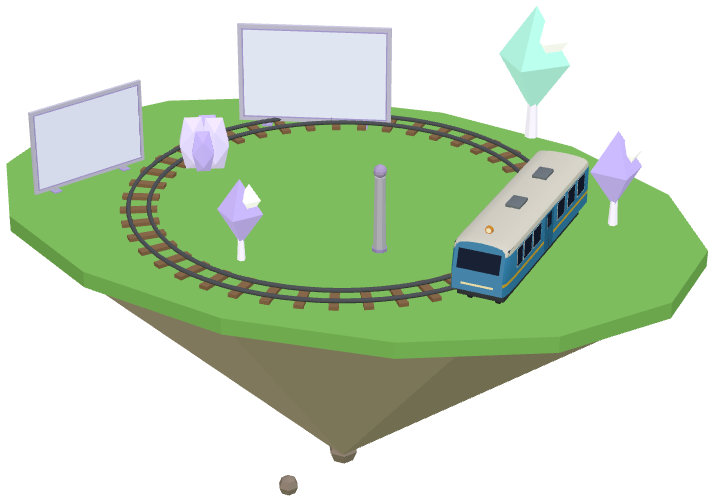
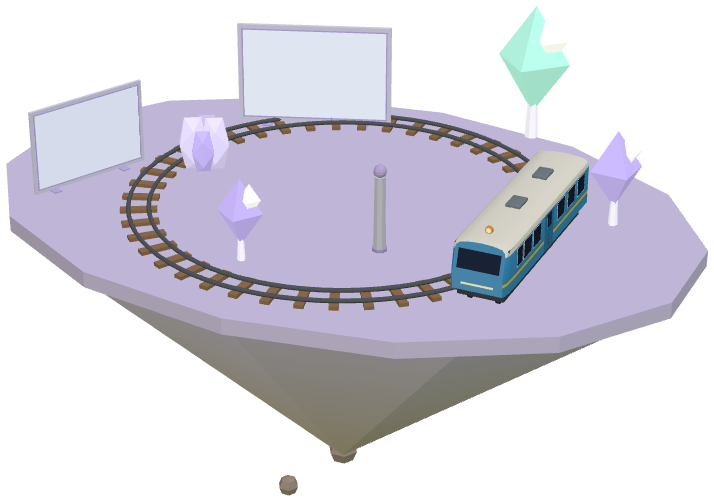
5-3: the mirror Sakasa a third of the screen high; island 5-3 on lavender ground
- The glimpse's and the ending's mirrors stand beside the line just ahead
  of the stopped train (11 m right, glass to the rail, 20 m wide so they
  turn clear of it); Sakasa 1 m before the glass looking away, the camera
  low and 2.2 m off to the side on her reflection: the mirror Sakasa and
  her hearts and stars fill about a third of the screen, the bubble below.
  She walks off along the glass, never through it.
- stage-5-3-full: a screenshot with the hearts in the glimpse.
- Map pictures: a diorama `ground` colour (the island top and its edge);
  5-3's lavender, public/map/5-3.png drawn again.

Claude-Session: https://claude.ai/code/session_01DufJAw4fQ6tTfsoi3dumzG

diff --git a/src/viewer/map-render.ts b/src/viewer/map-render.ts
@@ -6,7 +6,9 @@
 import {
   Box3,
   BoxGeometry,
+  Color,
   DirectionalLight,
+  Float32BufferAttribute,
   Group,
   HemisphereLight,
   MathUtils,
@@ -51,9 +53,47 @@ function railRing(radius: number): Group {
   return g;
 }
 
+/** Paints the upward faces of `root`'s meshes `color` (vertex colours on a copy of each geometry, else the material). */
+function tintTop(root: Group, color: string): void {
+  const c = new Color(color);
+  const top = new Box3().setFromObject(root).max.y;
+  root.traverse((o) => {
+    const mesh = o as Mesh;
+    if (!mesh.isMesh) return;
+    const geometry = mesh.geometry.clone();
+    const normals = geometry.getAttribute('normal');
+    const colors = geometry.getAttribute('color');
+    if (!normals) return;
+    const material = (Array.isArray(mesh.material) ? mesh.material[0] : mesh.material) as MeshLambertMaterial;
+    let out = colors;
+    if (!out) {
+      // A material colour: every vertex that colour, then its own copy of the material painted by vertices.
+      const base = material.color ?? new Color('#ffffff');
+      const array = new Float32Array(normals.count * 3);
+      for (let i = 0; i < normals.count; i++) base.toArray(array, i * 3);
+      out = new Float32BufferAttribute(array, 3);
+      geometry.setAttribute('color', out);
+      const painted = material.clone();
+      painted.vertexColors = true;
+      painted.color = new Color('#ffffff');
+      mesh.material = painted;
+    }
+    // The top and its grassy edge (everything within 2 m of the island's top, in world height); the rock keeps its colour.
+    root.updateMatrixWorld(true);
+    const positions = geometry.getAttribute('position');
+    const p = new Vector3();
+    for (let i = 0; i < positions.count; i++) if (p.fromBufferAttribute(positions, i).applyMatrix4(mesh.matrixWorld).y > top - 2) out.setXYZ(i, c.r, c.g, c.b);
+    out.needsUpdate = true;
+    mesh.geometry = geometry;
+  });
+}
+
 async function build(diorama: WorldDiorama | null, models: ModelLibrary): Promise<Group> {
   const root = new Group();
-  root.add((await models.load(diorama?.base ?? 'island-b')).clone(true));
+  const base = (await models.load(diorama?.base ?? 'island-b')).clone(true);
+  // v1.11: a ground colour of its own (5-3's lavender): the top faces of the island take it, the rock underneath keeps its.
+  if (diorama?.ground) tintTop(base, diorama.ground);
+  root.add(base);
   if (!diorama) return root;
   if (diorama.rail) root.add(railRing(diorama.rail.radius));
   for (const item of diorama.items) {

diff --git a/tests/smoke/stage-5-3-full.spec.ts b/tests/smoke/stage-5-3-full.spec.ts
@@ -343,6 +343,11 @@ test('stage 5-3 full run: the magnet light learned, the mirror world, phantoms, 
   await expect(app).toHaveAttribute('data-cutscene-actors', /(^|,)sakasa(,|$)/);
   await page.waitForTimeout(1_200);
   await page.screenshot({ path: resolve(OUT, '5-3-09-glimpse.png') });
+  // Then the hearts and stars round the mirror Sakasa (she fills about a third of the screen); her "こんにちは".
+  await tapUntil(page, '#bubble:has-text("こ、こんにちは")', 60_000);
+  await expect(app).toHaveAttribute('data-cutscene-actors', /sakasa-mirror/);
+  await page.waitForTimeout(600);
+  await page.screenshot({ path: resolve(OUT, '5-3-09b-glimpse-hearts.png') });
 
   // ---- M3 かがみの なかへ ----
   await card(page, 'ミッション 3');
@@ -397,7 +402,7 @@ test('stage 5-3 full run: the magnet light learned, the mirror world, phantoms, 
   await expect(page.locator('#bubble .bubble-name')).toHaveText('かがみの サカサ');
   await expect(app).toHaveAttribute('data-cutscene-actors', /sakasa-mirror/);
   await expect(app).toHaveAttribute('data-ambience', '');
-  await page.waitForTimeout(600);
+  await page.waitForTimeout(900);
   await page.screenshot({ path: resolve(OUT, '5-3-12-mirror-sakasa.png') });
   await tapUntil(page, '#card.is-reflect', 120_000);
   await expect(app).toHaveAttribute('data-mirror-facing', /m-oo:back/);

diff --git a/src/world/types.ts b/src/world/types.ts
@@ -104,6 +104,8 @@ export interface WorldDiorama {
   base: string;
   /** v1.11 (5-1): drawn under the night's blue light at 70 % (the map's pictures stay bright enough to read). */
   lighting?: 'night';
+  /** v1.11 (5-3): the island top's colour (e.g. lavender "#d9cdf4"); the rock underneath keeps its own. */
+  ground?: string;
   /** A ring of track on the top. */
   rail?: { radius: number };
   camera?: { yaw: number; pitch: number };
